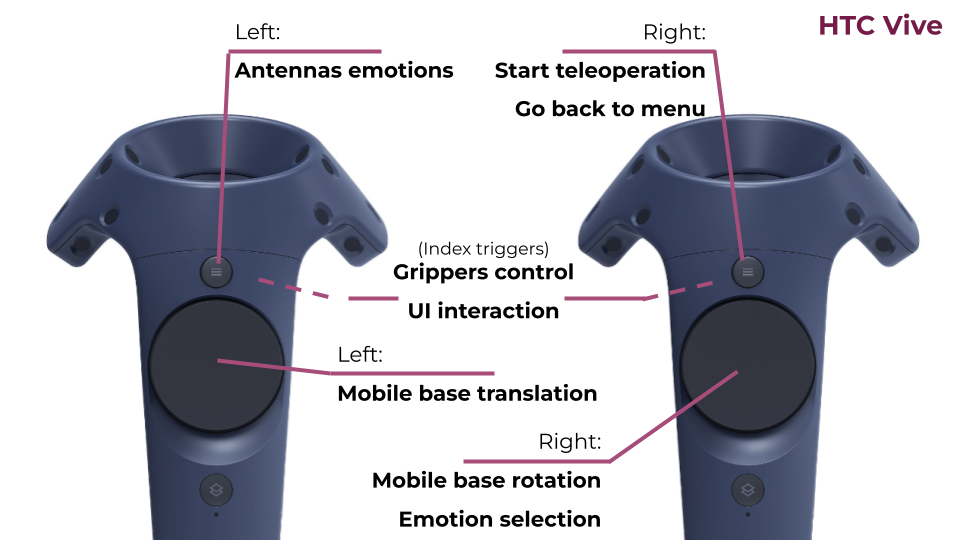
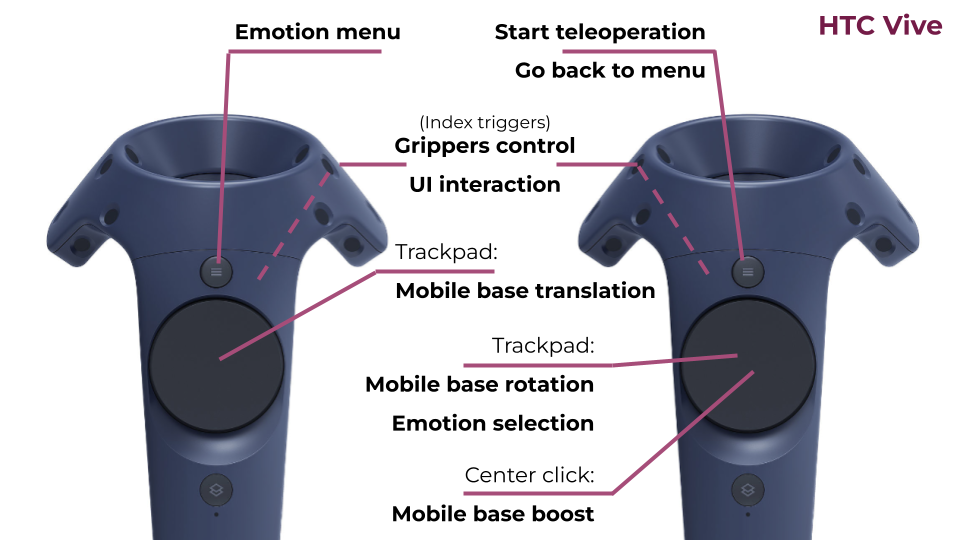
Update controllers mappings.

diff --git a/content/VR/use-teleop/commands/index.md b/content/VR/use-teleop/commands/index.md
@@ -1,7 +1,7 @@
 ---
 title: "Controllers inputs"
 description: ""
-lead: "Mappings between the VR controllers and the app"
+lead: "Mapping between the most common VR controllers and the app"
 date: 2020-10-06T08:48:57+00:00
 lastmod: 2020-10-06T08:48:57+00:00
 draft: false
@@ -22,10 +22,11 @@ hidden: true
 |----|--------------------|
 |**(A)**|**At robot teleoperation start:** Start robot teleoperation|
 |       |**During teleoperation:** Return to menu|
-|**(B)**|**During teleoperation:** Boost mobile base|
+|**(B)**|**During teleoperation:** Mobile base boost|
 |**(X)**|**During teleoperation:** Open emotion menu (keep pressed)|
-|**Left Joystick**|**During teleoperation:** Control mobile base translation|
-|**Right Joystick**|**During teleoperation:** Control mobile base rotation|
+|       |**When leaving teleoperation (A pressed):** Lock robot position|
+|**Left Thumbstick**|**During teleoperation:** Control mobile base translation|
+|**Right Thumbstick**|**During teleoperation:** Control mobile base rotation|
 |                  |*If emotion menu is open:* Select emotion|
 |**Left Index Trigger**|**In menu:** Select button|
 |                      |**During teleoperation:** Control left gripper|
@@ -45,9 +46,10 @@ hidden: true
 |**(A)** ***right***|**At robot teleoperation start:** Start robot teleoperation|
 |                |**During teleoperation:** Return to menu|
 |**(A)** ***left***|**During teleoperation:** Open emotion menu|
-|**(B)**|**During teleoperation:** Boost mobile base|
-|**Left Joystick**|**During teleoperation:** Control mobile base translation|
-|**Right Joystick**|**During teleoperation:** Control mobile base rotation|
+|                  |**When leaving teleoperation (right A pressed):** Lock robot position|
+|**(B)** ***right***|**During teleoperation:** Mobile base boost|
+|**Left Thumbstick**|**During teleoperation:** Control mobile base translation|
+|**Right Thumbstick**|**During teleoperation:** Control mobile base rotation|
 |                  |*If emotion menu is open:* Select emotion|
 |**Left Index Trigger**|**In menu:** Select button|
 |                      |**During teleoperation:** Control left gripper|
@@ -67,10 +69,12 @@ hidden: true
 |**Sandwich menu** ***right***|**At robot teleoperation start:** Start robot teleoperation|
 |                |**During teleoperation:** Return to menu|
 |**Sandwich menu** ***left***|**During teleoperation:** Open emotion menu|
-|**Left Joystick**|**During teleoperation:** Control mobile base translation|
-|**Right Joystick**|**During teleoperation:** Control mobile base rotation|
+|                            |**When leaving teleoperation (right menu pressed):** Lock robot position|
+|**Left Trackpad**|**During teleoperation:** Control mobile base translation|
+|**Right Trackpad**|**During teleoperation:** Control mobile base rotation|
+|                  |*Center click:* Mobile base boost|
 |                  |*If emotion menu is open:* Select emotion|
-|**Left Index Trigger left**|**In menu:** Select button|
+|**Left Index Trigger**|**In menu:** Select button|
 |                      |**During teleoperation:** Control left gripper|
 |**Right Index Trigger**|**In menu:** Select button|
 |                       |**During teleoperation:** Control right gripper|
